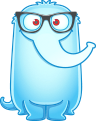
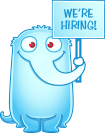
progress development

diff --git a/wp-content/themes/socrata-bootstrap/css/custom.css b/wp-content/themes/socrata-bootstrap/css/custom.css
@@ -279,7 +279,7 @@ ul#menu-header {
 }
 .text-block h1 {
   font-weight: 300;
-  max-width: 600px;
+  max-width: 940px;
   margin:0 auto;
 }
 
@@ -288,10 +288,15 @@ ul#menu-header {
   font-weight: 300;
   margin-bottom:30px;
 }
+.core-values i {
+  font-weight: 600;
+  font-size:80px;
+  font-style: normal;
+}
 
-.perks h3 {
-  border-bottom:#d1d1d1 solid 1px;
-  padding-bottom:15px;
+.perks h3, .engineer-content h3 {
+  font-weight: 600;
+  letter-spacing: -1px;
 
 }
 .perks h4 {
@@ -315,6 +320,7 @@ ul#menu-header {
   color:#2ECC71;
   font-size: 18px;
 }
+
 
 /* Colors */
 svg.slant {
@@ -372,12 +378,17 @@ svg.slant {
 #page section:first-of-type h1 {
   font-size: 50px;
   margin-bottom: 30px;
+  font-weight: 600;
+  letter-spacing: -1px;
 
 }
 .peter-river h1, .pomegranate h1, .wet-asphalt h1, .carrot h1, .concrete h1, .clouds h1, .green-sea h1, .pomegranate h2, .wet-asphalt h2, .carrot h2, .concrete h2, .clouds h2, .green-sea h2, .peter-river h2 {
     max-width: 940px;
     margin-left:auto;
     margin-right:auto;
+}
+section.green-sea {
+  position: relative;
 }
 
 span.playbutton {
@@ -557,13 +568,13 @@ figure.effect-chico i {
   fill: #fff;
   stroke: #fff;
 }
-.stuart {
+.cta-stuart {
   display:block;
-  height:121px;
-  width:96px;
+  height:133px;
+  width:105px;
   background-image: url(../images/stuart-1.png);
   background-repeat: no-repeat;
-  margin: -70px auto 0 auto;
+  margin: -75px auto 0 auto;
 }
 
 /*******************************/
@@ -591,6 +602,24 @@ figure.effect-chico i {
 .message img {
   padding:0 30px;
 }
+
+/*******************************/
+/* Stuart */
+/*******************************/
+.stuart {
+  width:100%;
+  height:150px;
+  position: absolute;
+  bottom:-30px;
+  z-index: 100;
+}
+
+.engineer {
+  background:url(../images/stuart-engineer.png);
+  background-repeat: no-repeat;
+  background-position: center center;
+}
+
 
 /*******************************/
 /* Footer */

diff --git a/wp-content/themes/socrata-bootstrap/homepage.php b/wp-content/themes/socrata-bootstrap/homepage.php
@@ -21,7 +21,7 @@ get_header(); ?>
     </svg>
   </section>
 	<section class="text-block">
-		<h1>Socrata is a donec ullamcorper nulla non metus auctor fringilla. Vivamus sagittis lacus.</h1>
+		<h1>Socrata is unleashing the power of data to improve the world around us.</h1>
 	</section>
 </div>
 <div id="ex"><span class="glyphicon glyphicon-remove" aria-hidden="true" style="color:#fff;"></span></div>

diff --git a/wp-content/themes/socrata-bootstrap/functions.php b/wp-content/themes/socrata-bootstrap/functions.php
@@ -10,5 +10,6 @@ require_once locate_template('/functions/feedback.php');
 require_once locate_template('/shortcodes/section-separators.php');
 require_once locate_template('/shortcodes/timeline.php');
 require_once locate_template('/shortcodes/team-culture.php');
+require_once locate_template('/shortcodes/stuart.php');
 require_once locate_template('BFI_Thumb.php');
 ?>

diff --git a/wp-content/themes/socrata-bootstrap/call-to-action.php b/wp-content/themes/socrata-bootstrap/call-to-action.php
@@ -1,7 +1,7 @@
 <section class="cta-jobs">
 	<div class="container">
 		<ul>
-			<li><div class="stuart"></div></li>
+			<li><div class="cta-stuart"></div></li>
 			<li><span>Now Hiring!</span> We're actively looking for talent.</li>
 			<li><a href="/jobs" class="btn btn-inverse">Learn More</a></li>
 		</ul>

diff --git a/wp-content/themes/socrata-bootstrap/shortcodes/stuart.php b/wp-content/themes/socrata-bootstrap/shortcodes/stuart.php
@@ -1,0 +1,9 @@
+<?php
+
+ // [stuart-engineer]
+add_shortcode("stuart-engineer", "stuart_engineer");
+function stuart_engineer() {
+  return '
+<div class="stuart engineer"></div>
+  ';
+}
